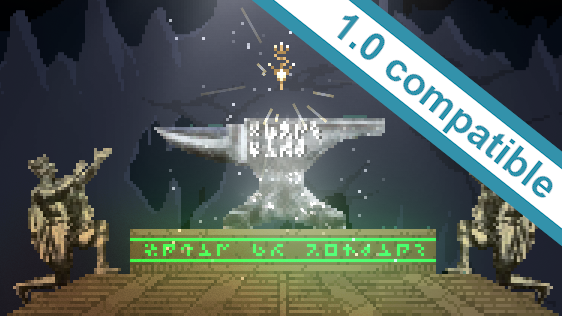
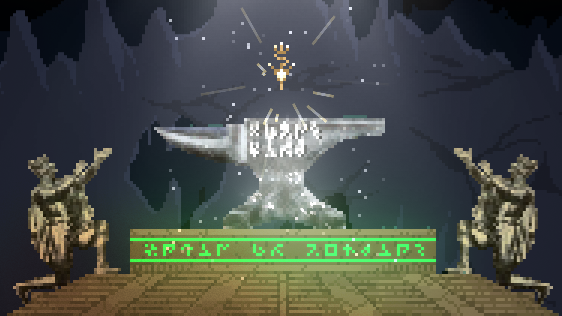
Revert workshop image, add new tele potion, and...
remove speed up effect from acceleratium

Changed region(s): [[0.4537, 0.0, 1.0, 0.7975]]

diff --git a/TODO.md b/TODO.md
@@ -1,5 +1,6 @@
-- FIX for 1.0:
-- Fix altar scene
+- Add magic_liquid_unstable_teleportation
+- Add GUI Icon for wand speedup effect (blessing of the gods) and sparkles?
+
 - Sound stops working
 - Add runestones?
 - Add recipe for broken wand?
